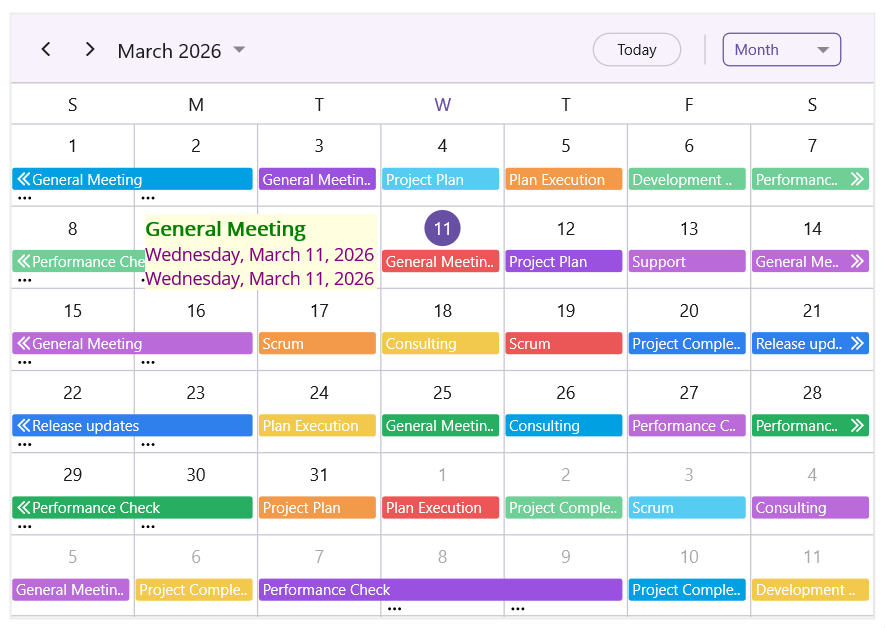
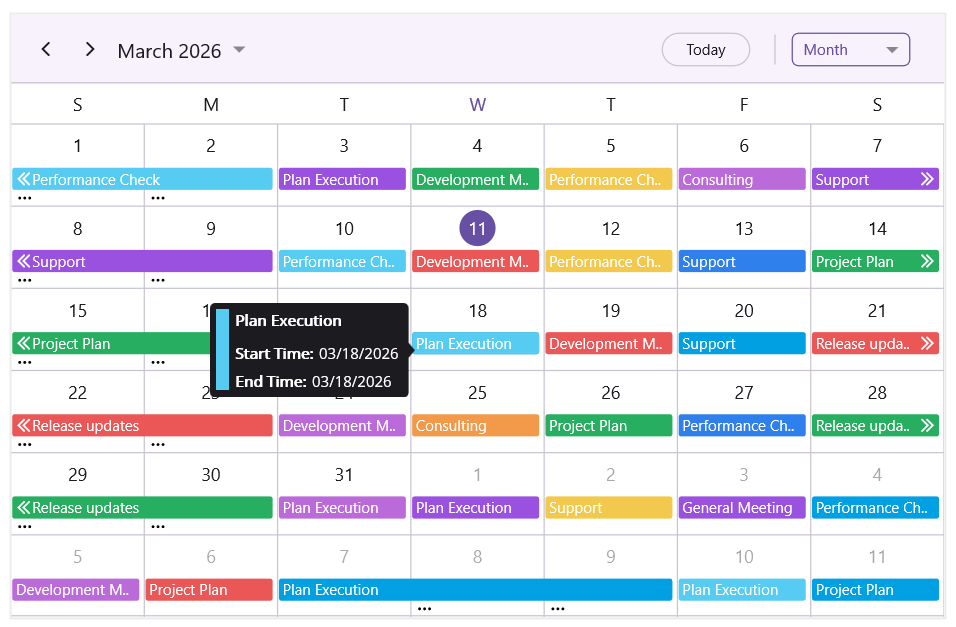
Modified the appointment template UI and added the corresponding code and image.

diff --git a/MAUI/Scheduler/appointment-tooltip.md b/MAUI/Scheduler/appointment-tooltip.md
@@ -100,29 +100,49 @@ The `AppointmentToolTipTemplate` property lets you create a custom tooltip layou
                        IsAppointmentToolTipEnabled="True">
 
     <scheduler:SfScheduler.AppointmentToolTipSettings>
-                <scheduler:AppointmentToolTipSettings Background="Transparent" ToolTipPosition="Left"/>
+        <scheduler:AppointmentToolTipSettings ToolTipPosition="Left"/>
     </scheduler:SfScheduler.AppointmentToolTipSettings>
 
     <scheduler:SfScheduler.AppointmentToolTipTemplate>
         <DataTemplate x:DataType="scheduler:SchedulerAppointment">
-            <StackLayout>
-                <Label Text="{Binding Subject}"
-                       TextColor="Green"
-                       Background="LightYellow"
-                       FontSize="16"
-                       FontAttributes="Bold"
-                       LineBreakMode="NoWrap" />
-                <Label Text="{Binding StartTime, StringFormat='{0:dddd, MMMM d, yyyy}'}"
-                       TextColor="Purple"
-                       Background="LightYellow"
-                       FontSize="14"
-                       LineBreakMode="NoWrap" />
-                <Label Text="{Binding EndTime, StringFormat='{0:dddd, MMMM d, yyyy}'}"
-                       TextColor="Purple"
-                       Background="LightYellow"
-                       FontSize="14"
-                       LineBreakMode="NoWrap" />
-            </StackLayout>
+            <Grid ColumnDefinitions="Auto,*">
+                <BoxView Grid.Column="0"
+                         Background="{Binding Background}"
+                         WidthRequest="10"
+                         HorizontalOptions="Start"
+                         VerticalOptions="Fill"
+                         Margin="0,0,5,0" />
+
+                <VerticalStackLayout Grid.Column="1" Spacing="5">
+                    <Label Text="{Binding Subject}"
+                           FontAttributes="Bold"
+                           FontSize="12"
+                           TextColor="White"
+                           LineBreakMode="TailTruncation"
+                           MaxLines="2"
+                           Margin="0,0,0,5" />
+
+                    <HorizontalStackLayout Spacing="4">
+                        <Label Text="Start Time: "
+                               FontAttributes="Bold"
+                               FontSize="12"
+                               TextColor="White" />
+                        <Label Text="{Binding StartTime, StringFormat='{0:MM/dd/yyyy}'}"
+                               FontSize="12"
+                               TextColor="White" />
+                    </HorizontalStackLayout>
+
+                    <HorizontalStackLayout Spacing="4">
+                        <Label Text="End Time: "
+                               FontAttributes="Bold"
+                               FontSize="12"
+                               TextColor="White" />
+                        <Label Text="{Binding EndTime, StringFormat='{0:MM/dd/yyyy}'}"
+                                FontSize="12"
+                                TextColor="White" />
+                    </HorizontalStackLayout>
+                </VerticalStackLayout>
+            </Grid>
         </DataTemplate>
     </scheduler:SfScheduler.AppointmentToolTipTemplate>
 </scheduler:SfScheduler>
